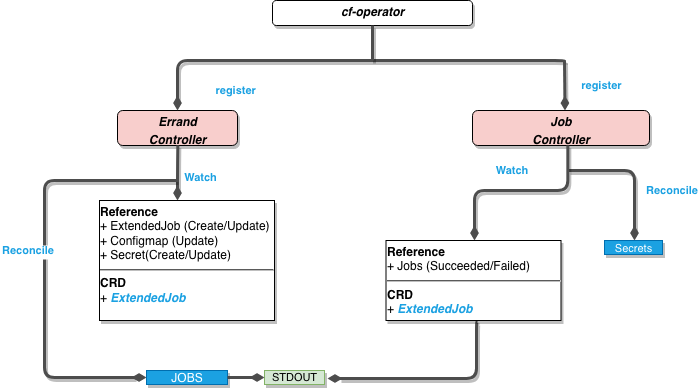
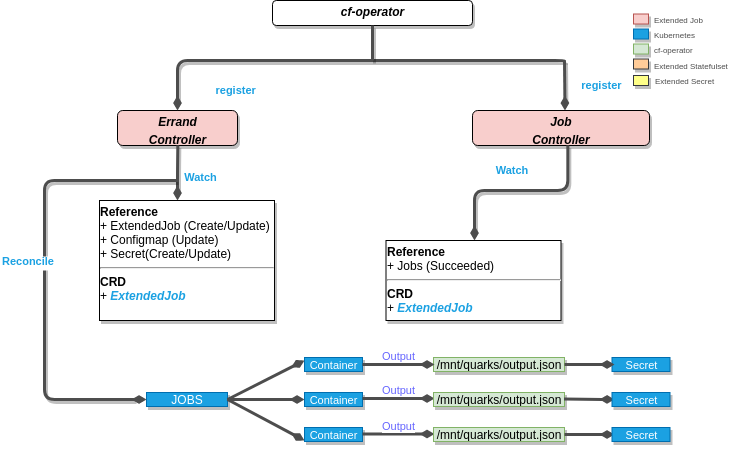
Update extendedjob docs

Changed region(s): [[0.0, 0.0, 1.0, 1.0]]

diff --git a/docs/controllers/extendedjob.md b/docs/controllers/extendedjob.md
@@ -16,7 +16,7 @@
 
 ## Description
 
-An `ExtendedJob` allows the developer to run jobs when something interesting happens. It also allows the developer to store the output of the job into a `Secret`.
+An `ExtendedJob` allows the developer to run jobs when something interesting happens. It also allows the developer to store the output to a file /mnt/quarks/output.json which is transformed into a `Secret` later.
 The job started by an `ExtendedJob` is deleted automatically after it succeeds.
 
 There are two different kinds of `ExtendedJob`:
@@ -78,23 +78,6 @@ automatically be restarted if its environment/mounts have changed, due to a
 
 - Once `updateOnConfigChange` is enabled, modifying the `data` of any `ConfigMap` or `Secret` referenced by the `template` section of the job will trigger the job again.
 
-### **_Job Controller_**
-
-![job-controller-flow](quarks_ejobjobcontroller_flow.png)
-*Fig. 3: The Job controller flow*
-
-This is an auxiliary controller that relies on the Errand Controller output. It will be watching for Kubernetes Jobs that Succeeded or Failed, and eventually it will generate Kubernetes secrets.
-
-#### Watches in job controller
-
-- `Jobs`: Succeeded or Failed
-
-#### Reconciliation in job controller
-
-- Generate Kubernetes secrets(versioned them)
-
-#### Highlights in job controller
-
 ##### Persisted Output
 
 - The developer can specify a `Secret` where the standard output/error output of the `ExtendedJob` is stored.
@@ -102,6 +85,17 @@ This is an auxiliary controller that relies on the Errand Controller output. It 
 - One secret is created or overwritten per container in the pod. The secrets' names are `<namePrefix>-<containerName>`.
 
 - The only supported output type currently is JSON with a flat structure, i.e. all values being string values.
+
+- The developer should ensure that he/she redirects the JSON output to a file named output.json in /mnt/quarks volume mount at the end of the container script. An example of the command field in the extendedjob spec will look like this 
+
+```
+command: ["/bin/sh"]
+args: ["-c","json='{\"foo\": \"1\", \"bar\": \"baz\"}' && echo $json >> /mnt/quarks/output.json"]
+```
+
+- The secret is created by a side container in extendedjob pod which captures the create event of /mnt/quarks/output.json file.
+
+- Secrets are created for each container in the extended job pod spec.
 
 - **Note:** Output of previous runs is overwritten.
 
@@ -125,6 +119,21 @@ Each versioned secret has the following characteristics:
   - `fissile.cloudfoundry.org/secret-kind` with a value of `versionedSecret`
   - `fissile.cloudfoundry.org/secret-version` with a value set to the `ordinal` of the secret
 - an annotation of `fissile.cloudfoundry.org/source-description` that contains arbitrary information about the creator of the secret
+
+### **_Job Controller_**
+
+![job-controller-flow](quarks_ejobjobcontroller_flow.png)
+*Fig. 3: The Job controller flow*
+
+This is an auxiliary controller that relies on the Errand Controller output. It will be watching for Kubernetes Jobs that have Succeeded and deletes the job. If the jobpod of the succeeded job has a label `delete=pod`, it deletes the job pod too.
+
+#### Watches in job controller
+
+- `Jobs`: Succeeded 
+
+#### Reconciliation in job controller
+
+- Deletes succeeded job and its pod.
 
 ## Relationship with the BDPL component
 
